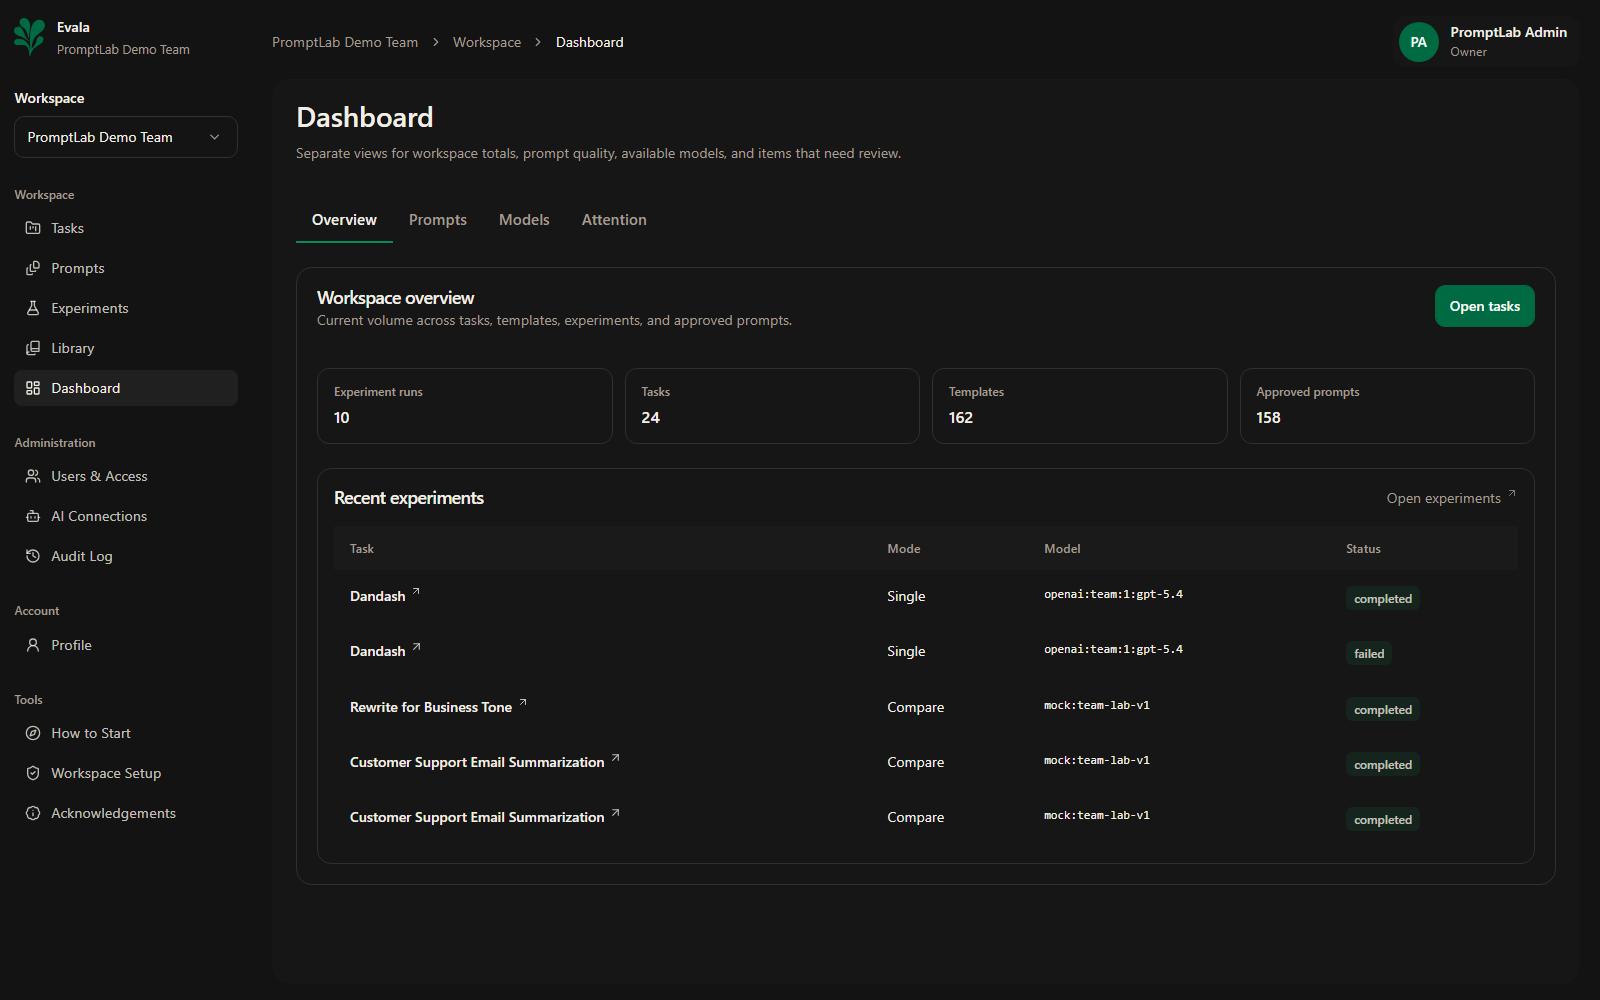
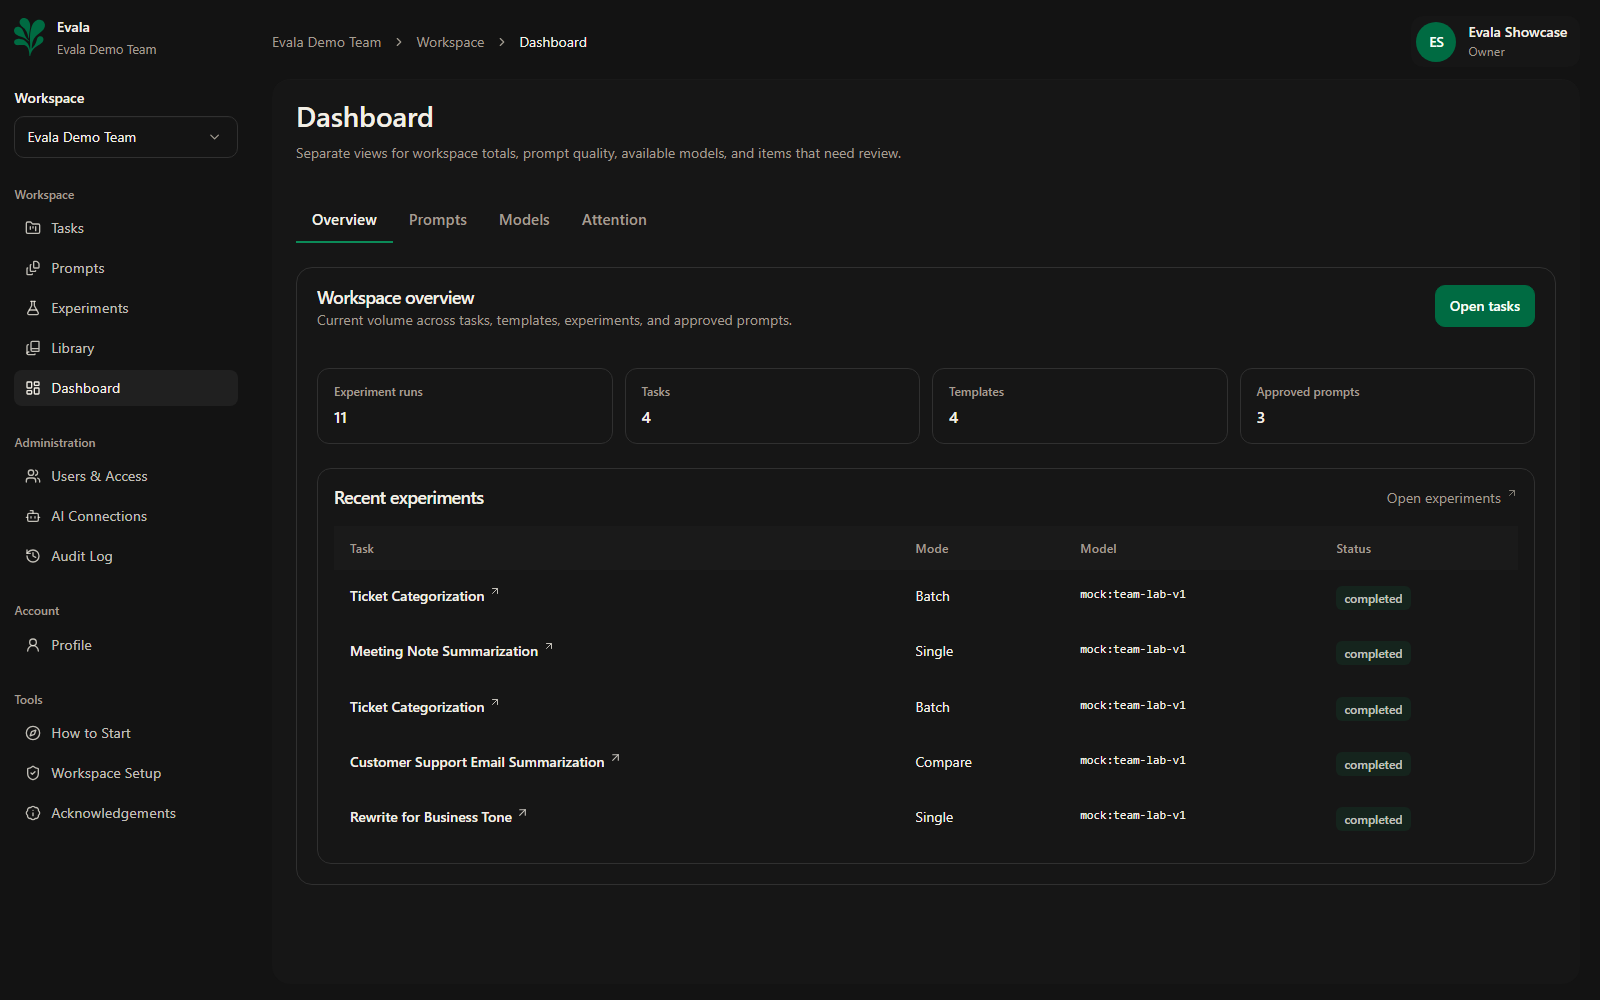
Publish showcase workflow screenshots

diff --git a/README.md b/README.md
@@ -44,15 +44,23 @@ The strongest seeded example is a customer support email summarization workflow 
 
 ## Screenshots
 
-The screenshots below are generated from the actual app UI with Playwright and published to [`docs/screenshots/latest`](./docs/screenshots/latest).
+The screenshots below are generated from the actual app UI with Playwright, using the seeded `showcase@evala.local` profile, and published to [`docs/screenshots/latest`](./docs/screenshots/latest).
 
 | Dashboard | Task Directory |
 |---|---|
 | ![Dashboard preview](docs/screenshots/latest/dashboard.png) | ![Task directory preview](docs/screenshots/latest/task-directory.png) |
 
-| Prompt Catalog | Playground |
+| Task Detail | Prompt Revisions |
 |---|---|
-| ![Prompt catalog preview](docs/screenshots/latest/prompt-catalog.png) | ![Playground preview](docs/screenshots/latest/playground.png) |
+| ![Task detail preview](docs/screenshots/latest/task-detail.png) | ![Prompt revisions preview](docs/screenshots/latest/prompt-revisions.png) |
+
+| Experiment Compare | Library Catalog |
+|---|---|
+| ![Experiment compare preview](docs/screenshots/latest/experiment-compare.png) | ![Library catalog preview](docs/screenshots/latest/library-catalog.png) |
+
+| Library Entry | Experiment Playground |
+|---|---|
+| ![Library entry preview](docs/screenshots/latest/library-entry.png) | ![Playground preview](docs/screenshots/latest/playground.png) |
 
 ## Architecture At A Glance
 
@@ -297,6 +305,7 @@ The demo bootstrap uses built assets. For active frontend work, use `composer ru
 
 ## Demo Accounts
 
+- `showcase@evala.local` / `password`
 - `admin@promptlab.local` / `password`
 - `team@promptlab.local` / `password`
 
@@ -322,9 +331,11 @@ npm run ui:screenshots
 Default behavior:
 
 - reads `APP_URL` from `.env` or `.env.example`
-- signs in with `admin@promptlab.local` / `password`
-- captures `login`, `register`, `dashboard`, `use-cases`, `prompts`, and `playground`
+- signs in with `showcase@evala.local` / `password`
+- resolves the seeded customer-support showcase flow from the app API
+- captures `login`, `register`, `dashboard`, `task-directory`, `task-detail`, `prompt-revisions`, `experiment-compare`, `library-catalog`, `library-entry`, and `playground`
 - stores a timestamped run in `interface-screenshots-auto`
+- archives previously published README screenshots into `docs/screenshots/archive` before replacing them
 - republishes the dark-theme showcase images into `docs/screenshots/latest`
 
 Useful overrides:
